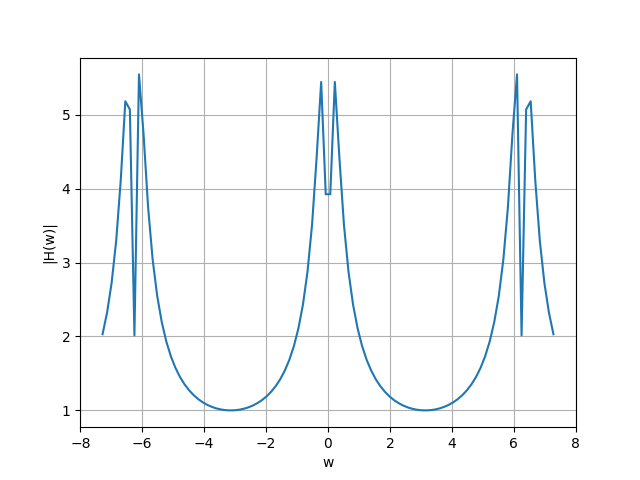
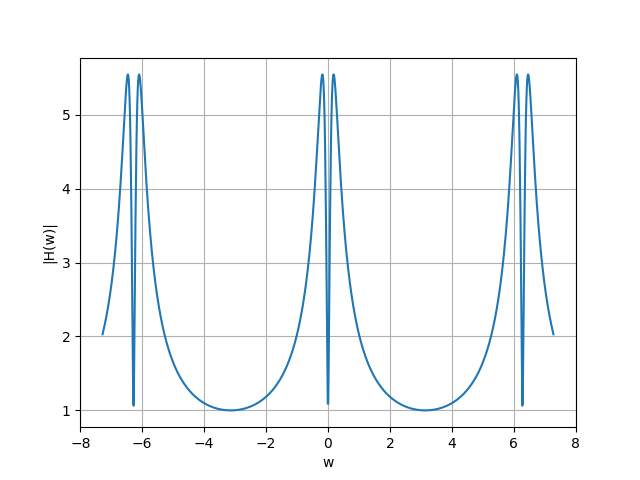
improvving accuracy

Changed region(s): [[0.7812, 0.1562, 0.8438, 0.8438], [0.1875, 0.1562, 0.25, 0.8438], [0.5, 0.1562, 0.5312, 0.8438]]

diff --git a/Gate-Assignment3/codes/DTFT.py b/Gate-Assignment3/codes/DTFT.py
@@ -1,7 +1,7 @@
 import numpy as np
 import matplotlib.pyplot as plt
 
-omega = np.linspace(-2*np.pi-1,2*np.pi+1,100)
+omega = np.linspace(-2*np.pi-1,2*np.pi+1,1000)
 y = 1/(1-(5/6)*(np.exp(-1j*omega))) +  1/(1-(6/5)*(np.exp(-1j*omega)))
 
 amp = (y*np.conj(y))**(0.5)
